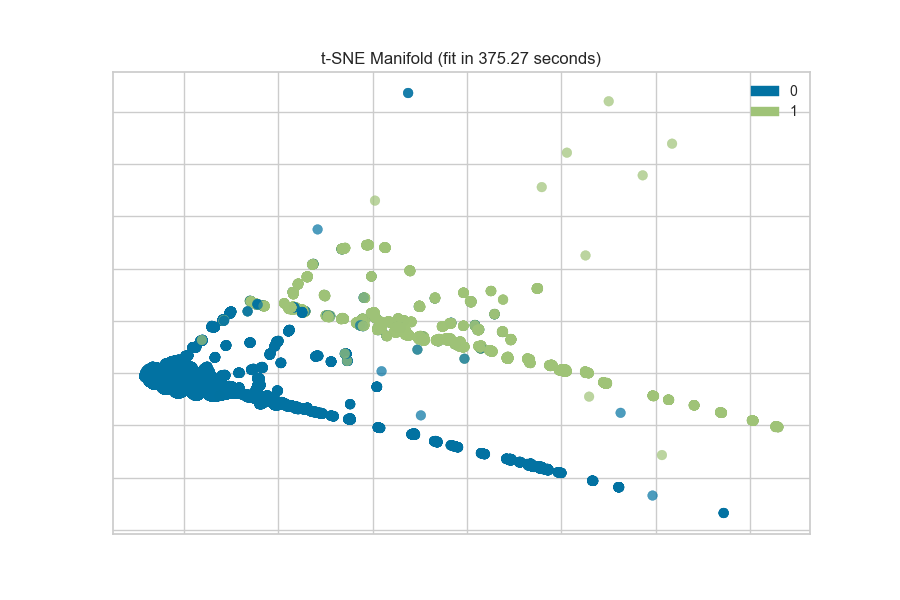
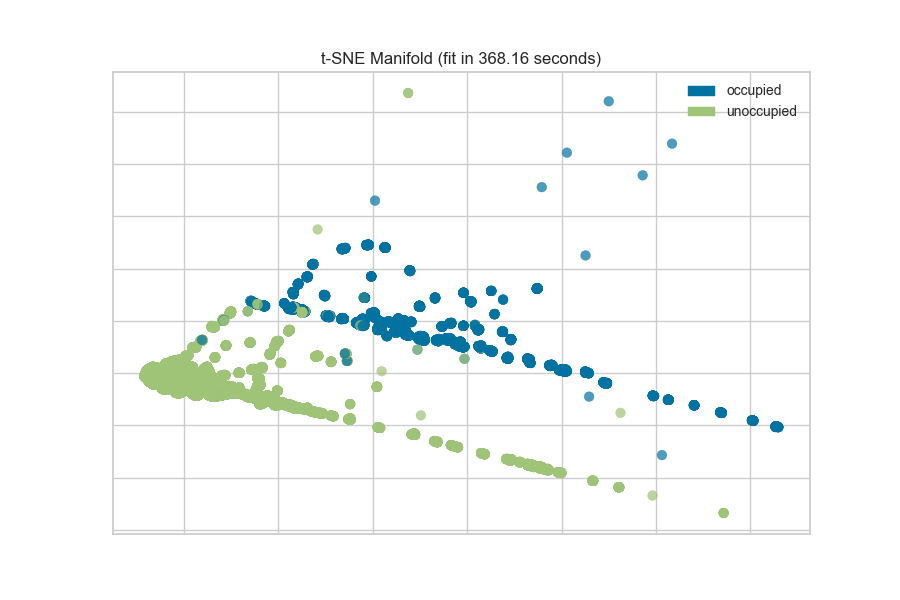
documentation complete

diff --git a/yellowbrick/features/manifold.py b/yellowbrick/features/manifold.py
@@ -83,14 +83,14 @@ class Manifold(FeatureVisualizer):
         ============== ==========================
         Manifold       Description
         -------------- --------------------------
-        ``"lle"``      `Locally Linear Embedding <http://scikit-learn.org/stable/modules/manifold.html#locally-linear-embedding>`_
-        ``"ltsa"``     `LTSA LLE <http://scikit-learn.org/stable/modules/manifold.html#local-tangent-space-alignment>`_
-        ``"hessian"``  `Hessian LLE <http://scikit-learn.org/stable/modules/manifold.html#hessian-eigenmapping>`_
-        ``"modified"`` `Modified LLE <http://scikit-learn.org/stable/modules/manifold.html#modified-locally-linear-embedding>`_
-        ``"isomap"``   `Isomap <http://scikit-learn.org/stable/modules/manifold.html#isomap>`_
-        ``"mds"``      `Multi-Dimensional Scaling <http://scikit-learn.org/stable/modules/manifold.html#multi-dimensional-scaling-mds>`_
-        ``"spectral"`` `Spectral Embedding <http://scikit-learn.org/stable/modules/manifold.html#spectral-embedding>`_
-        ``"tsne"``     `t-SNE <http://scikit-learn.org/stable/modules/manifold.html#t-distributed-stochastic-neighbor-embedding-t-sne>`_
+        ``"lle"``      `Locally Linear Embedding`_
+        ``"ltsa"``     `LTSA LLE`_
+        ``"hessian"``  `Hessian LLE`_
+        ``"modified"`` `Modified LLE`_
+        ``"isomap"``   `Isomap`_
+        ``"mds"``      `Multi-Dimensional Scaling`_
+        ``"spectral"`` `Spectral Embedding`_
+        ``"tsne"``     `t-SNE`_
         ============== ==========================
 
     Each of these algorithms embeds non-linear relationships in different ways,
@@ -185,6 +185,15 @@ class Manifold(FeatureVisualizer):
 
     .. seealso::
         The Scikit-Learn discussion on `Manifold Learning <http://scikit-learn.org/stable/modules/manifold.html>`_.
+
+    .. _`Locally Linear Embedding`: http://scikit-learn.org/stable/modules/manifold.html#locally-linear-embedding
+    .. _`LTSA LLE`: http://scikit-learn.org/stable/modules/manifold.html#local-tangent-space-alignment
+    .. _`Hessian LLE`: http://scikit-learn.org/stable/modules/manifold.html#hessian-eigenmapping>
+    .. _`Modified LLE`: http://scikit-learn.org/stable/modules/manifold.html#modified-locally-linear-embedding
+    .. _`Isomap`: http://scikit-learn.org/stable/modules/manifold.html#isomap
+    .. _`Multi-Dimensional Scaling`: http://scikit-learn.org/stable/modules/manifold.html#multi-dimensional-scaling-mds
+    .. _`Spectral Embedding`: http://scikit-learn.org/stable/modules/manifold.html#spectral-embedding
+    .. _`t-SNE`: http://scikit-learn.org/stable/modules/manifold.html#t-distributed-stochastic-neighbor-embedding-t-sne
     """
 
     ALGORITHMS = MANIFOLD_ALGORITHMS

diff --git a/docs/api/features/manifold.py b/docs/api/features/manifold.py
@@ -21,8 +21,10 @@ import pandas as pd
 import matplotlib.pyplot as plt
 
 from sklearn import datasets
+from sklearn.pipeline import Pipeline
+from sklearn.feature_selection import SelectKBest
+from sklearn.feature_selection import f_classif#, mutual_info_classif
 from yellowbrick.features.manifold import Manifold, MANIFOLD_ALGORITHMS
-
 
 SKIP = (
     'ltsa', # produces no result
@@ -44,7 +46,7 @@ def load_occupancy_data():
     features = ["temperature", "relative humidity", "light", "C02", "humidity"]
 
     X = data[features]
-    y = data.occupancy
+    y = pd.Series(['occupied' if y == 1 else 'unoccupied' for y in data.occupancy])
 
     return X, y
 
@@ -98,6 +100,18 @@ def dataset_example(dataset="occupancy", manifold="all", path="images/"):
     oz.fit(X, y)
     oz.poof(outpath=path)
 
+
+def select_features_example(algorithm='isomap', path="images/occupancy_select_k_best_isomap_manifold.png"):
+    _, ax = plt.subplots(figsize=(9,6))
+
+    model = Pipeline([
+        ("selectk", SelectKBest(k=3, score_func=f_classif)),
+        ("viz", Manifold(ax=ax, manifold=algorithm)),
+    ])
+
+    X, y = load_occupancy_data()
+    model.fit(X, y)
+    model.named_steps['viz'].poof(outpath=path)
 
 
 class SCurveExample(object):
@@ -155,5 +169,7 @@ if __name__ == '__main__':
     # curve = SCurveExample()
     # curve.plot_all_manifolds()
 
-    dataset_example('occupancy', 'all')
-    dataset_example('concrete', 'all')
+    dataset_example('occupancy', 'tsne', path="images/occupancy_tsne_manifold.png")
+    # dataset_example('concrete', 'all')
+
+    # select_features_example()

diff --git a/docs/api/features/manifold.rst b/docs/api/features/manifold.rst
@@ -3,41 +3,142 @@
 Manifold Visualization
 ======================
 
-- classification manifold
-- select k best features
-- regression manifold
-- warnings about time and memory consumption
+The ``Manifold`` visualizer provides high dimensional visualization using
+`manifold learning`_
+to embed instances described by many dimensions into 2, thus allowing the
+creation of a scatter plot that shows latent structures in data. Unlike
+decomposition methods such as PCA and SVD, manifolds generally use
+nearest-neighbors approaches to embedding, allowing them to capture non-linear
+structures that would be otherwise lost. The projections that are produced
+can then be analyzed for noise or separability to determine if it is possible
+to create a decision space in the data.
 
+.. image:: images/concrete_tsne_manifold.png
+
+The ``Manifold`` visualizer allows access to all currently available
+scikit-learn manifold implementations by specifying the manifold as a string to the visualizer. The currently implemented default manifolds are as follows:
+
+==============  ============================================================
+Manifold        Description
+--------------  ------------------------------------------------------------
+``"lle"``       `Locally Linear Embedding`_ (LLE) uses many local linear
+                decompositions to preserve globally non-linear structures.
+``"ltsa"``      `LTSA LLE`_: local tangent space alignment is similar to LLE
+                in that it uses locality to preserve neighborhood distances.
+``"hessian"``   `Hessian LLE`_ an LLE regularization method that applies a
+                hessian-based quadratic form at each neighborhood
+``"modified"``  `Modified LLE`_ applies a regularization parameter to LLE.
+``"isomap"``    `Isomap`_ seeks a lower dimensional embedding that maintains
+                geometric distances between each instance.
+``"mds"``       `MDS`_: multi-dimensional scaling uses similarity to plot
+                points that are near to each other close in the embedding.
+``"spectral"``  `Spectral Embedding`_ a discrete approximation of the low
+                dimensional manifold using a graph representation.
+``"tsne"``      `t-SNE`_: converts the similarity of points into probabilities
+                then uses those probabilities to create an embedding.
+==============  ============================================================
+
+Each manifold algorithm produces a different embedding and takes advantage of
+different properties of the underlying data. Generally speaking, it requires
+multiple attempts on new data to determine the manifold that works best for
+the structures latent in your data. Note however, that different manifold
+algorithms have different time, complexity, and resource requirements.
+
+Manifolds can be used on many types of problems, and the color used in the
+scatter plot can describe the target instance. In an unsupervised or
+clustering problem, a single color is used to show structure and overlap. In
+a classification problem discrete colors are used for each class. In a
+regression problem, a color map can be used to describe points as a heat map
+of their regression values.
+
+Discrete Target
+---------------
+
+In a classification or clustering problem, the instances can be described by
+discrete labels - the classes or categories in the supervised problem, or the
+clusters they belong to in the unsupervised version. The manifold visualizes
+this by assigning a color to each label and showing the labels in a legend.
 
 .. code:: python
 
     # Load the classification data set
-    data = load_data('credit')
+    data = load_data('occupancy')
 
     # Specify the features of interest
     features = [
-        'limit', 'sex', 'edu', 'married', 'age', 'apr_delay', 'may_delay',
-        'jun_delay', 'jul_delay', 'aug_delay', 'sep_delay', 'apr_bill', 'may_bill',
-        'jun_bill', 'jul_bill', 'aug_bill', 'sep_bill', 'apr_pay', 'may_pay', 'jun_pay',
-        'jul_pay', 'aug_pay', 'sep_pay',
+        "temperature", "relative humidity", "light", "C02", "humidity"
     ]
 
-    # Extract the numpy arrays from the data frame
-    X = data[features].as_matrix()
-    y = data.default.as_matrix()
+    # Extract the data from the data frame.
+    X = data[features]
+    y = data.occupancy
 
 .. code:: python
 
     from yellowbrick.features.manifold import Manifold
 
-    visualizer = Manifold()
+    visualizer = Manifold(manifold='tsne', target='discrete')
     visualizer.fit_transform(X,y)
     visualizer.poof()
 
 
-.. image:: images/s_curve_isomap_manifold.png
+.. image:: images/occupancy_tsne_manifold.png
 
+The visualization also displays the amount of time it takes to generate the
+embedding; as you can see, this can take a long time even for relatively
+small datasets. One tip is scale your data using the ``StandardScalar``;
+another is to sample your instances (e.g. using ``train_test_split`` to
+preserve class stratification) or to filter features to decrease sparsity in
+the dataset.
 
+One common mechanism is to use `SelectKBest` to select the features that have
+a statistical correlation with the target dataset. For example, we can use
+the ``f_classif`` score to find the 3 best features in our occupancy dataset.
+
+.. code:: python
+
+    from sklearn.pipeline import Pipeline
+    from sklearn.feature_selection import SelectKBest
+    from sklearn.feature_selection import f_classif
+
+    model = Pipeline([
+        ("selectk", SelectKBest(k=3, score_func=f_classif)),
+        ("viz", Manifold(manifold='isomap', target='discrete')),
+    ])
+
+    X, y = load_occupancy_data()
+    model.fit(X, y)
+    model.named_steps['viz'].poof()
+
+.. image:: images/occupancy_select_k_best_isomap_manifold.png
+
+Continuous Target
+-----------------
+
+For a regression target or to specify color as a heat-map of continuous
+values, specify ``target='continuous'``. Note that by default the param
+``target='auto'`` is set, which determines if the target is discrete or
+continuous by counting the number of unique values in ``y``.
+
+.. code:: python
+
+    # Specify the features of interest
+    feature_names = [
+        'cement', 'slag', 'ash', 'water', 'splast', 'coarse', 'fine', 'age'
+    ]
+    target_name = 'strength'
+
+    # Get the X and y data from the DataFrame
+    X = data[feature_names]
+    y = data[target_name]
+
+.. code:: python
+
+    visualizer = Manifold(manifold='isomap', target='continuous')
+    visualizer.fit_transform(X,y)
+    visualizer.poof()
+
+.. image:: images/concrete_isomap_manifold.png
 
 API Reference
 -------------
@@ -46,3 +147,15 @@ API Reference
     :members: Manifold
     :undoc-members:
     :show-inheritance:
+
+
+.. _`manifold learning`: http://scikit-learn.org/stable/modules/manifold.html
+.. _`manifold comparisons`: http://scikit-learn.org/stable/auto_examples/manifold/plot_compare_methods.html
+.. _`Locally Linear Embedding`: http://scikit-learn.org/stable/modules/manifold.html#locally-linear-embedding
+.. _`LTSA LLE`: http://scikit-learn.org/stable/modules/manifold.html#local-tangent-space-alignment
+.. _`Hessian LLE`: http://scikit-learn.org/stable/modules/manifold.html#hessian-eigenmapping>
+.. _`Modified LLE`: http://scikit-learn.org/stable/modules/manifold.html#modified-locally-linear-embedding
+.. _`Isomap`: http://scikit-learn.org/stable/modules/manifold.html#isomap
+.. _`MDS`: http://scikit-learn.org/stable/modules/manifold.html#multi-dimensional-scaling-mds
+.. _`Spectral Embedding`: http://scikit-learn.org/stable/modules/manifold.html#spectral-embedding
+.. _`t-SNE`: http://scikit-learn.org/stable/modules/manifold.html#t-distributed-stochastic-neighbor-embedding-t-sne
